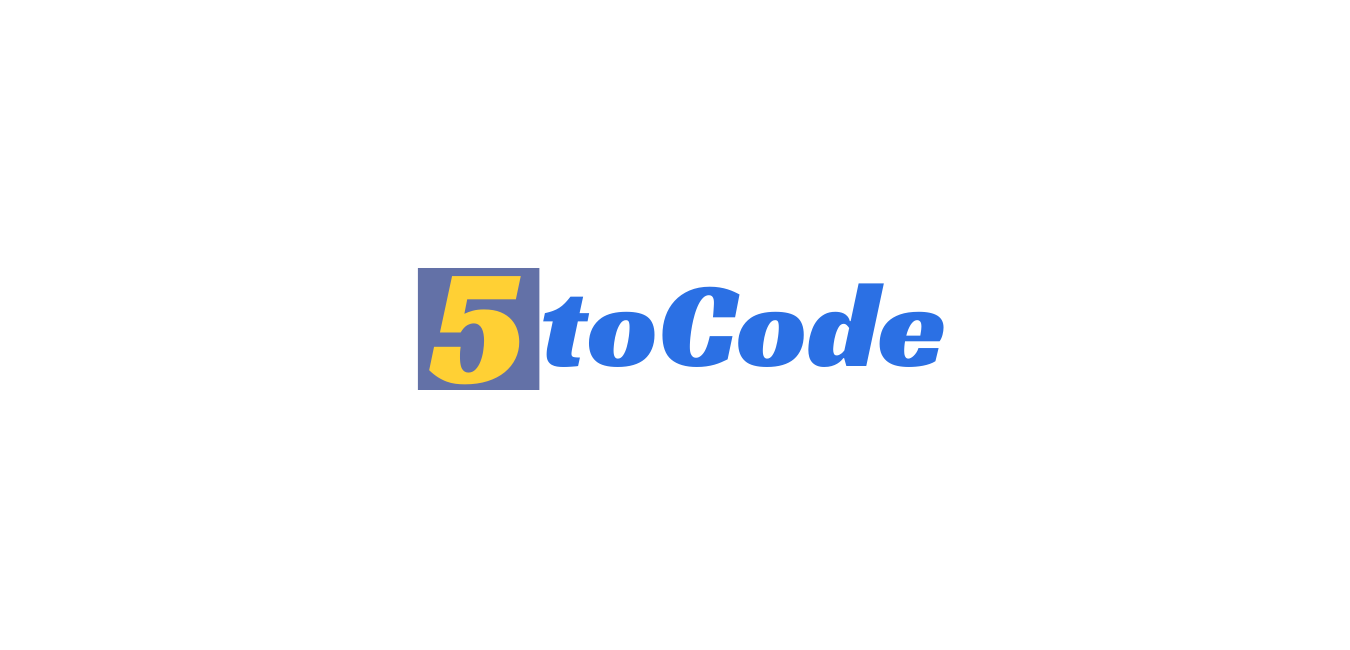
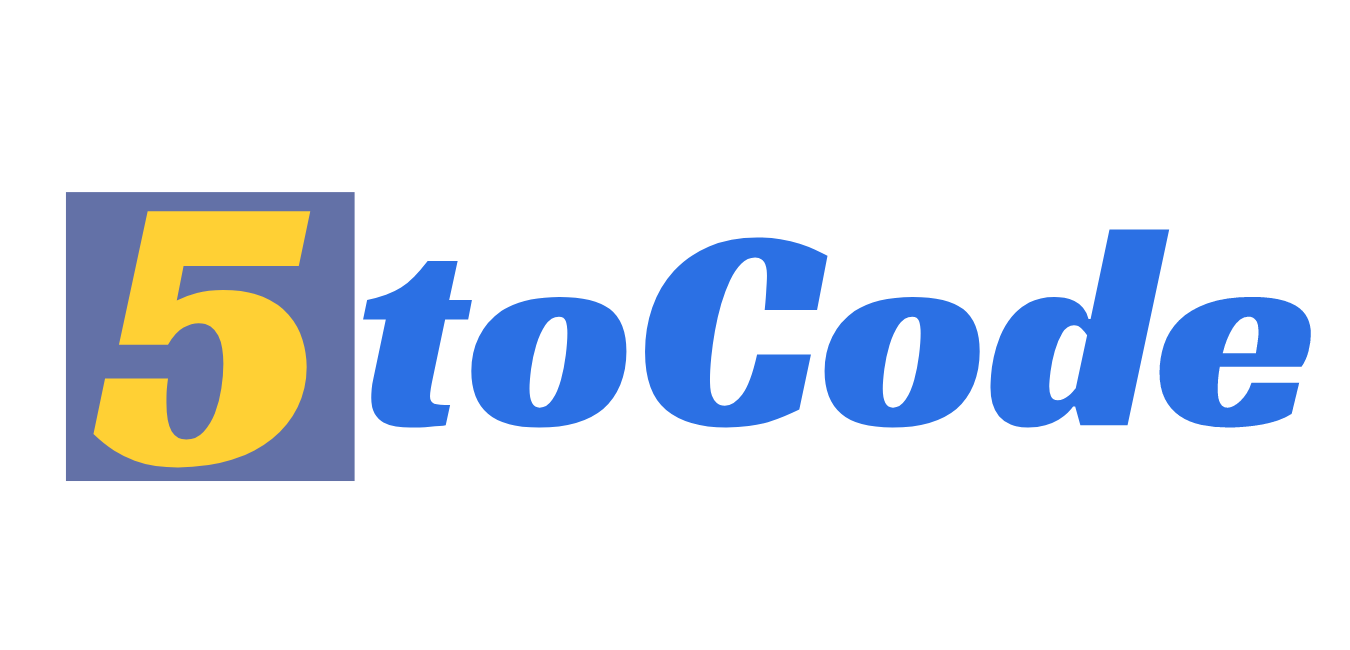
changed html content and updated styling

Changed region(s): [[0.0311, 0.2769, 0.9956, 0.7385]]

diff --git a/index.html b/index.html
@@ -36,8 +36,8 @@
         <h1 class="section__title section__title--intro">
             Hi, I am <strong>Mike Roberts</strong>
         </h1>
-        <p class="section__subtitle section__subtitle--intro">Full Stack Web Developer</p>
-        <img src="img/dev-jane-01.jpg" alt="a picture of Jane Smith smiling" class="intro__img">
+        <p class="section__subtitle section__subtitle--intro">A Full Stack Web Developer</p>
+        <img src="img/mike_headshot_blackbg.JPG" alt="a picture of Mike smiling" class="intro__img">
 
     </section>
 
@@ -48,23 +48,17 @@
             <div class="service">
                 <!-- Service -->
                 <h3>Websites</h3>
-                <p>Lorem ipsum dolor sit amet, consectetur adipiscing elit, sed do eiusmod tempor incididunt ut labore
-                    et dolore magna aliqua. Quis vel eros donec ac odio tempor. Iaculis urna id volutpat lacus laoreet.
-                    Viverra orci sagittis eu volutpat odio.</p>
+                <p>Beautiful, mobile-friendly websites for businesses and organizations who want to make a great first impression on the Internet.</p>
             </div>
             <div class="service">
                 <!-- Service -->
                 <h3>Web Applications</h3>
-                <p>Lorem ipsum dolor sit amet, consectetur adipiscing elit, sed do eiusmod tempor incididunt ut labore
-                    et dolore magna aliqua. Quis vel eros donec ac odio tempor. Iaculis urna id volutpat lacus laoreet.
-                    Viverra orci sagittis eu volutpat odio.</p>
+                <p>Interactive web applications with optional API and database integration.</p>
             </div>
             <div class="service">
                 <!-- Service -->
                 <h3>E-Commerce</h3>
-                <p>Lorem ipsum dolor sit amet, consectetur adipiscing elit, sed do eiusmod tempor incididunt ut labore
-                    et dolore magna aliqua. Quis vel eros donec ac odio tempor. Iaculis urna id volutpat lacus laoreet.
-                    Viverra orci sagittis eu volutpat odio.</p>
+                <p>Seamless buying & selling of your product/service over the Internet, using platforms such as Shopify, Square, and BigCommerce.</p>
             </div>
         </div> <!-- / Services -->
 
@@ -74,17 +68,14 @@
     <!-- About Me -->
     <section class="about-me" id="about">
         <h2 class="section__title section__title--about">Who I Am</h2>
-        <p class="section__subtitle section__subtitle--about">Web Developer based in Watersound, Florida</p>
+        <p class="section__subtitle section__subtitle--about">A Web Developer based in Watersound, Florida</p>
 
         <div class="about-me__body">
-            <p>Lorem ipsum dolor sit amet, consectetur adipiscing elit, sed do eiusmod tempor incididunt ut labore
-                et dolore magna aliqua. Quis vel eros donec ac odio tempor. Iaculis urna id volutpat lacus laoreet.
-                Viverra orci sagittis eu volutpat odio.</p>
-            <p>Lorem ipsum dolor sit amet, consectetur adipiscing elit, sed do eiusmod tempor incididunt ut labore
-                et dolore magna aliqua. Quis vel eros donec ac odio tempor. Iaculis urna id volutpat lacus laoreet.
-                Viverra orci sagittis eu volutpat odio.</p>
+            <p>I enjoy helping businesses and organizations create beautiful, functional websites that make a great impression on the Internet.</p>
+            <p>What sets me apart from other web developers? I find out what my client's ideal outcomes look like, and work backwards to create exactly what my client wanted.</p>
+            <p>Out of the office you'll probably find me being dragged around our neighboorhood by our three dogs, or in our garage attempting a new workout routine.</p>
         </div>
-        <img src="img/dev-jane-02.jpg" class="about-me__img" alt="jane leaning against a bus">
+        <img src="img/IMG_2163_2.png" class="about-me__img" alt="mike in germany">
     </section>
 
     <!-- My Work -->
@@ -151,22 +142,22 @@
         <a href="mailto:mike@5tocode.dev" class="footer__link">mike@5tocode.dev</a>
         <ul class="social-list">
             <li class="social-list__item social-list__link">
-                <a href="https://codepen.io">
+                <a href="https://codepen.io/5tocode">
                     <i class="fab fa-codepen"></i>
                 </a>
             </li>
             <li class="social-list__item social-list__link">
-                <a href="https://linkedin.com">
+                <a href="https://linkedin.com/in/5tocode">
                     <i class="fab fa-linkedin-in"></i>
                 </a>
             </li>
             <li class="social-list__item social-list__link">
-                <a href="https://twitter.com">
+                <a href="https://twitter.com/5tocode">
                     <i class="fab fa-twitter"></i>
                 </a>
             </li>
             <li class="social-list__item social-list__link">
-                <a href="https://github.com">
+                <a href="https://github.com/5toCode">
                     <i class="fab fa-github"></i>
                 </a>
             </li>

diff --git a/css/style.css b/css/style.css
@@ -16,7 +16,7 @@
 
     --clr-light: #fff;
     --clr-dark: #303030;
-    --clr-accent: #16e0bd;
+    --clr-accent: #2b70e4;
 
     --fs-h1: 3rem;
     --fs-h2: 2.25rem;
@@ -155,10 +155,10 @@ header {
 }
 
 .logo {
-    max-width: 200px;
+    max-width: 150px;
     position: relative;
-    right: 2em;
-    bottom: 2em;
+    right: .5em;
+    bottom: 1.25em;
 }
 
 .nav {
